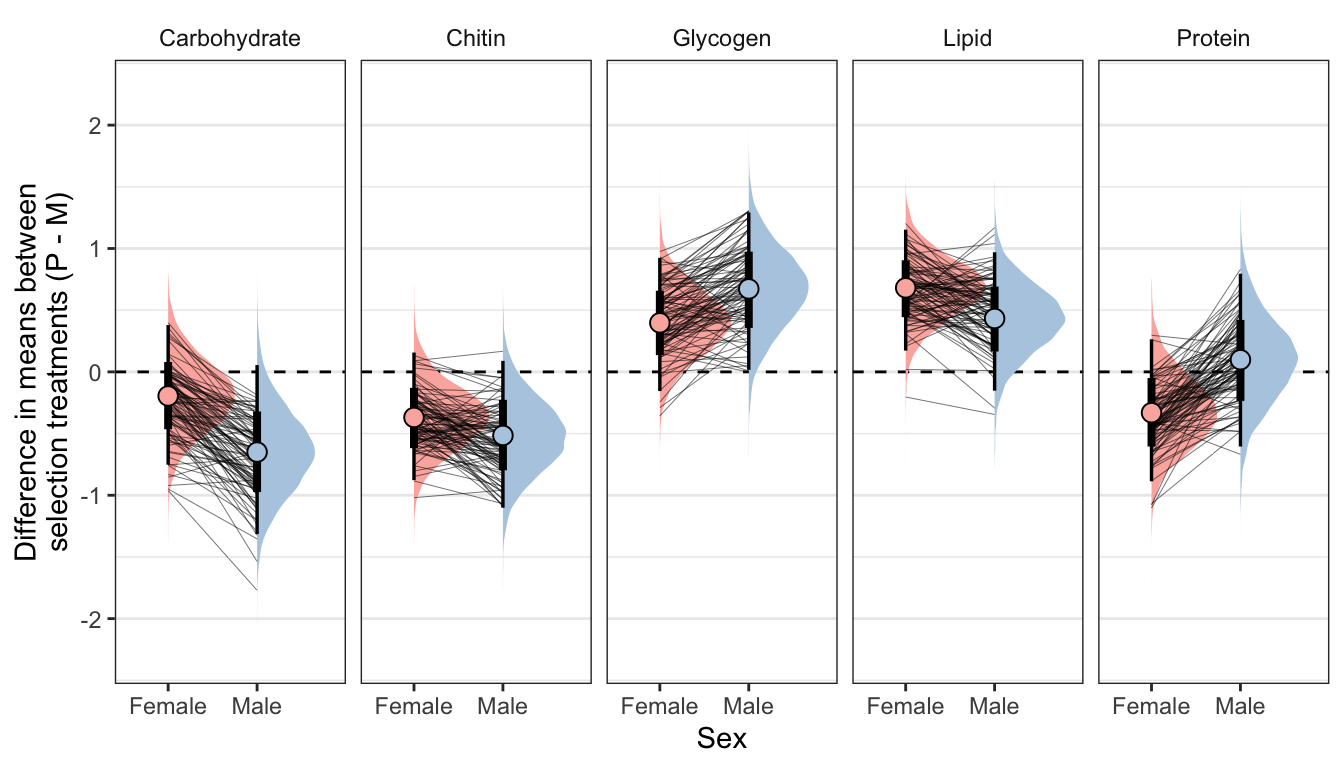
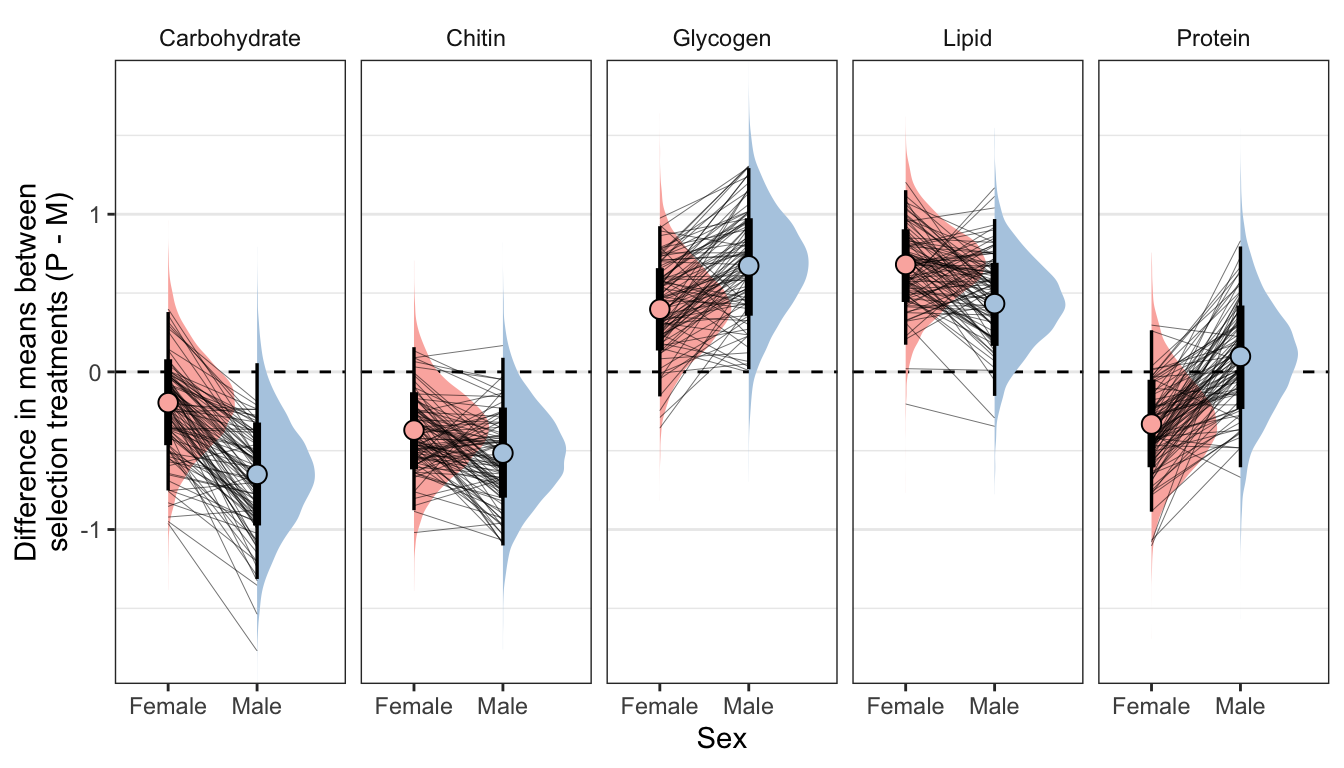
Build site.

diff --git a/docs/metabolites.html b/docs/metabolites.html
@@ -537,16 +537,16 @@ This reproducible <a href="http://rmarkdown.rstudio.com">R Markdown</a> analysis
 <div class="panel panel-default">
 <div class="panel-heading">
 <p class="panel-title">
-<a data-toggle="collapse" data-parent="#workflowr-checks" href="#strongRepositoryversionstrongahrefhttpsgithubcomlukeholmanexpevolrespirationtree8464a7f9052d933f1a1d9362a0dcaadc251ac349targetblank8464a7fa"> <span class="glyphicon glyphicon-ok text-success" aria-hidden="true"></span> <strong>Repository version:</strong> <a href="https://github.com/lukeholman/exp_evol_respiration/tree/8464a7f9052d933f1a1d9362a0dcaadc251ac349" target="_blank">8464a7f</a> </a>
+<a data-toggle="collapse" data-parent="#workflowr-checks" href="#strongRepositoryversionstrongahrefhttpsgithubcomlukeholmanexpevolrespirationtree125d4a20b9cb4b72203d6a9426f05c28c628400atargetblank125d4a2a"> <span class="glyphicon glyphicon-ok text-success" aria-hidden="true"></span> <strong>Repository version:</strong> <a href="https://github.com/lukeholman/exp_evol_respiration/tree/125d4a20b9cb4b72203d6a9426f05c28c628400a" target="_blank">125d4a2</a> </a>
 </p>
 </div>
[2 lines of base64/hex data omitted]
 <div class="panel-body">
 <p>
 Great! You are using Git for version control. Tracking code development and connecting the code version to the results is critical for reproducibility.
 </p>
 <p>
-The results in this page were generated with repository version <a href="https://github.com/lukeholman/exp_evol_respiration/tree/8464a7f9052d933f1a1d9362a0dcaadc251ac349" target="_blank">8464a7f</a>. See the <em>Past versions</em> tab to see a history of the changes made to the R Markdown and HTML files.
+The results in this page were generated with repository version <a href="https://github.com/lukeholman/exp_evol_respiration/tree/125d4a20b9cb4b72203d6a9426f05c28c628400a" target="_blank">125d4a2</a>. See the <em>Past versions</em> tab to see a history of the changes made to the R Markdown and HTML files.
 </p>
 <p>
 Note that you need to be careful to ensure that all relevant files for the analysis have been committed to Git prior to generating the results (you can use <code>wflow_publish</code> or <code>wflow_git_commit</code>). workflowr only checks the R Markdown file, but you know if there are other scripts or data files that it depends on. Below is the status of the Git repository when the results were generated:
@@ -556,7 +556,6 @@ Ignored files:
     Ignored:    .DS_Store
     Ignored:    .Rproj.user/
     Ignored:    analysis/.DS_Store
-    Ignored:    analysis/figure/
 
 Unstaged changes:
     Modified:   output/brms_metabolite_SEM.rds
@@ -598,6 +597,40 @@ Message
 </tr>
 </thead>
 <tbody>
+<tr>
+<td>
+Rmd
+</td>
+<td>
+<a href="https://github.com/lukeholman/exp_evol_respiration/blob/125d4a20b9cb4b72203d6a9426f05c28c628400a/analysis/metabolites.Rmd" target="_blank">125d4a2</a>
+</td>
+<td>
+lukeholman
+</td>
+<td>
+2020-12-10
+</td>
+<td>
+Tweaks
+</td>
+</tr>
+<tr>
+<td>
+html
+</td>
+<td>
+<a href="https://rawcdn.githack.com/lukeholman/exp_evol_respiration/31ed22a0fddc910a5b2d35590773c8cd5bc5e6dd/docs/metabolites.html" target="_blank">31ed22a</a>
+</td>
+<td>
+lukeholman
+</td>
+<td>
+2020-12-10
+</td>
+<td>
+Build site.
+</td>
+</tr>
 <tr>
 <td>
 Rmd
@@ -1413,6 +1446,17 @@ Date
 </tr>
 </thead>
 <tbody>
+<tr>
+<td>
+<a href="https://github.com/lukeholman/exp_evol_respiration/blob/31ed22a0fddc910a5b2d35590773c8cd5bc5e6dd/docs/figure/metabolites.Rmd/unnamed-chunk-12-1.png" target="_blank">31ed22a</a>
+</td>
+<td>
+lukeholman
+</td>
+<td>
+2020-12-10
+</td>
+</tr>
 <tr>
 <td>
 <a href="https://github.com/lukeholman/exp_evol_respiration/blob/f7c88a27be8607a9c0c6cbd2c39e0d7ab0f32aa8/docs/figure/metabolites.Rmd/unnamed-chunk-12-1.png" target="_blank">f7c88a2</a>
@@ -2250,8 +2294,8 @@ scale reduction factor on split chains (at convergence, Rhat = 1).
 <p>By clicking the tabs and comparing, one can see that the estimates of the treatment effect hardly change when differences in dry weight are controlled for. This indicates that dry mass does not have an important role in mediating the effect of treatment on metabolite composition, even though body size differs between treatments. Thus, we conclude that the M vs P treatments caused metabolite composition to evolve, through mechanisms other than the evolution of dry weight.</p>
 <div id="figure" class="section level3 tabset">
 <h3>Figure</h3>
-<div id="not-controlling-for-differences-in-dry-weight-between-sexes-and-treatments" class="section level4">
-<h4>Not controlling for differences in dry weight between sexes and treatments</h4>
+<div id="not-controlling-for-differences-in-dry-weight-between-treatments" class="section level4">
+<h4>Not controlling for differences in dry weight between treatments</h4>
 <pre class="r"><code>new &lt;- expand_grid(sex = c(&quot;Male&quot;, &quot;Female&quot;),
                    treatment = c(&quot;Monogamy&quot;, &quot;Polyandry&quot;),
                    Dryweight = NA, line = NA) %&gt;%
@@ -2333,7 +2377,7 @@ summary_dat2 &lt;- treat_diff_actual_dryweight %&gt;%
             .groups = &quot;drop&quot;)
 
 sampled_draws &lt;- sample(unique(fitted_values$draw), 100)
-ylims &lt;- c(-2.3, 2.3)
+ylims &lt;- c(-1.8, 1.8)
 
 treat_diff_actual_dryweight %&gt;%
   filter(variable != &#39;Dryweight&#39;) %&gt;% 
@@ -2404,8 +2448,8 @@ lukeholman
 </div>
 </div>
 </div>
-<div id="controlling-for-differences-in-dry-weight-between-sexes-and-treatments" class="section level4">
-<h4>Controlling for differences in dry weight between sexes and treatments</h4>
+<div id="controlling-for-differences-in-dry-weight-between-treatments" class="section level4">
+<h4>Controlling for differences in dry weight between treatments</h4>
 <pre class="r"><code>treat_diff_standard_dryweight %&gt;%
   filter(variable != &#39;Dryweight&#39;) %&gt;% 
   ggplot(aes(x = sex, y = `Difference in means (Poly - Mono)`,fill = sex)) +
@@ -2467,8 +2511,8 @@ lukeholman
 </div>
 <div id="table" class="section level3 tabset">
 <h3>Table</h3>
-<div id="controlling-for-differences-in-dry-weight-between-sexes-and-treatments-1" class="section level4">
-<h4>Controlling for differences in dry weight between sexes and treatments</h4>
+<div id="controlling-for-differences-in-dry-weight-between-treatments-1" class="section level4">
+<h4>Controlling for differences in dry weight between treatments</h4>
 <pre class="r"><code>summary_dat1 %&gt;%
   kable(digits = 3) %&gt;%
   kable_styling(full_width = FALSE)</code></pre>
@@ -2723,8 +2767,8 @@ Male
 </tbody>
 </table>
 </div>
-<div id="not-controlling-for-differences-in-dry-weight-between-sexes-and-treatments-1" class="section level4">
-<h4>Not controlling for differences in dry weight between sexes and treatments</h4>
+<div id="not-controlling-for-differences-in-dry-weight-between-treatments-1" class="section level4">
+<h4>Not controlling for differences in dry weight between treatments</h4>
 <pre class="r"><code>summary_dat2 %&gt;%
   kable(digits = 3) %&gt;%
   kable_styling(full_width = FALSE)</code></pre>
@@ -2988,8 +3032,8 @@ Male
 <p>This section essentially examines the treatment <span class="math inline">\(\times\)</span> sex interaction term, by calculating the difference in the effect size of the P/M treatment between sexes, for each of the five metabolites. We find no strong evidence for a treatment <span class="math inline">\(\times\)</span> sex interaction, i.e. the treatment effects did not differ detectably between sexes. However, the effect of the Polyandry treatment on glycogen concentration appears to be marginally more positive in males than females (probability of direction = 92.5%, similar to a one-sided p-value of 0.075).</p>
 <div id="figure-1" class="section level3 tabset">
 <h3>Figure</h3>
-<div id="not-controlling-for-differences-in-dry-weight-between-sexes-and-treatments-2" class="section level4">
-<h4>Not controlling for differences in dry weight between sexes and treatments</h4>
+<div id="not-controlling-for-differences-in-dry-weight-between-treatments-2" class="section level4">
+<h4>Not controlling for differences in dry weight between treatments</h4>
 <pre class="r"><code>treatsex_interaction_data1 &lt;- treat_diff_actual_dryweight %&gt;%
   select(draw, variable, sex, d =  `Difference in means (Poly - Mono)`) %&gt;%
   arrange(draw, variable, sex) %&gt;%
@@ -3059,8 +3103,8 @@ lukeholman
 </div>
 </div>
 </div>
-<div id="controlling-for-differences-in-dry-weight-between-sexes-and-treatments-2" class="section level4">
-<h4>Controlling for differences in dry weight between sexes and treatments</h4>
+<div id="controlling-for-differences-in-dry-weight-between-treatments-2" class="section level4">
+<h4>Controlling for differences in dry weight between treatments</h4>
 <pre class="r"><code>treatsex_interaction_data2 &lt;- treat_diff_standard_dryweight %&gt;%
   select(draw, variable, sex, d =  `Difference in means (Poly - Mono)`) %&gt;%
   arrange(draw, variable, sex) %&gt;%
@@ -3121,8 +3165,8 @@ lukeholman
 </div>
 <div id="table-1" class="section level3 tabset">
 <h3>Table</h3>
-<div id="not-controlling-for-differences-in-dry-weight-between-sexes-and-treatments-3" class="section level4">
-<h4>Not controlling for differences in dry weight between sexes and treatments</h4>
+<div id="not-controlling-for-differences-in-dry-weight-between-treatments-3" class="section level4">
+<h4>Not controlling for differences in dry weight between treatments</h4>
 <pre class="r"><code>treatsex_interaction_data1 %&gt;%
   filter(variable != &#39;Dryweight&#39;) %&gt;%
   rename(x = `Difference in effect size between sexes (male - female)`) %&gt;%
@@ -3256,8 +3300,8 @@ Protein
 </tbody>
 </table>
 </div>
-<div id="controlling-for-differences-in-dry-weight-between-sexes-and-treatments-3" class="section level4">
-<h4>Controlling for differences in dry weight between sexes and treatments</h4>
+<div id="controlling-for-differences-in-dry-weight-between-treatments-3" class="section level4">
+<h4>Controlling for differences in dry weight between treatments</h4>
 <pre class="r"><code>treatsex_interaction_data2 %&gt;%
   filter(variable != &#39;Dryweight&#39;) %&gt;%
   rename(x = `Difference in effect size between sexes (male - female)`) %&gt;%
